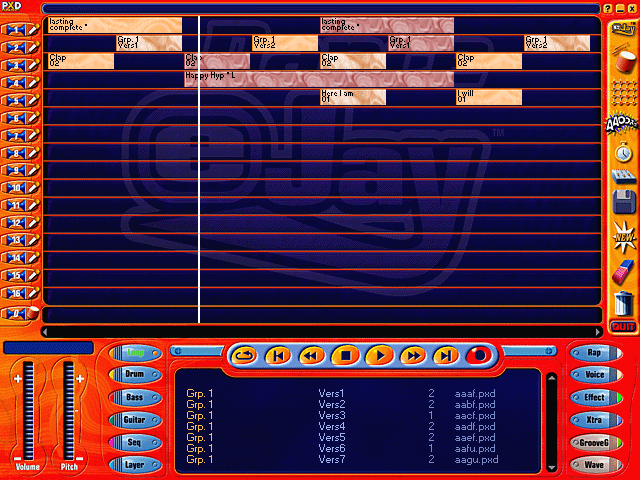
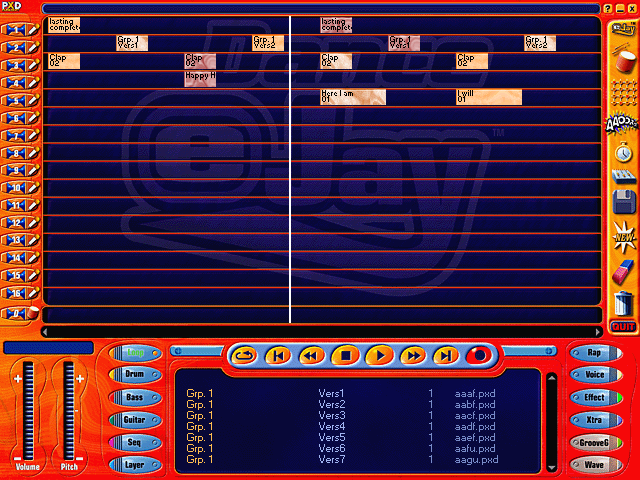
eJay 2: the whole arrangement plays through, and a fresh screenshot
Two corrections to the instrument, then the result.

The envelope report was timing itself by counting ticks at 16ms. A tick actually
takes about 31ms, so its time axis was out by a factor of two and a block placed
at bar 12 appeared to sound at bar 6 - a bug that existed only in the report. It
now records AGetTime beside each level and plots against the engine's own
playback clock. On that axis a single block at bar 12 sounds at bar 12.0, and a
fourteen-bar arrangement plays from bar 0 through bar 14 and stops where it ends.

The arrangement column beside it now uses each sample's own length rather than
the bars its block occupies: a one-beat hit fills a bar of grid and sounds for a
beat, and counting it as a bar reported silence as a fault.

The workspace screenshot is retaken from a run with the arrangement playing. The
paint check reports nothing outside the panels, which is the browser-row overlap
that kept coming back, gone in the picture as well as in the check.

Claude-Session: https://claude.ai/code/session_01KXFeSjiR8AQuaVsADvqfMd

diff --git a/host32/ejay2.c b/host32/ejay2.c
@@ -1951,6 +1951,9 @@ int main(int argc, char **argv)
     }
     float peak = 0.0f;
     static float env[2400];
+    static int   envt[2400];   /* AGetTime beside each level, so the time axis
+                                 is the engine's playback clock and not an
+                                 assumption about how long a tick took */
     int env_n = 0;
     double played = 0.0;   /* engine bytes from samples that already finished */
     DWORD t0 = GetTickCount();
@@ -2087,7 +2090,10 @@ int main(int argc, char **argv)
         pump_messages();
         float p = meter_peak();
         if (p > peak) peak = p;
-        if (env_n < (int)(sizeof(env) / sizeof(env[0]))) env[env_n++] = p;
+        if (env_n < (int)(sizeof(env) / sizeof(env[0]))) {
+            envt[env_n] = AGetTime ? AGetTime(0) : 0;
+            env[env_n++] = p;
+        }
         if (seq && i % 50 == 0)
             printf("    t=%5lums  AGetTime %8d  transport %9d  cur %d/%d  peak %.3f\n",
                    (unsigned long)(GetTickCount() - t0),
@@ -2143,13 +2149,17 @@ int main(int argc, char **argv)
         for (int k = 0; k + 8 <= env_n; k += 8) {
             float m = 0;
             for (int j = 0; j < 8; j++) if (env[k + j] > m) m = env[k + j];
-            double at = k * 16 * 176.4;            /* ticks -> output bytes */
+            double at = envt[k] * 176.4;           /* playback ms -> output bytes */
             int want = 0;
             for (int i = 0; i < g_song_n; i++) {
                 const SLOT *sl = &g_song[i];
                 if (sl->lib < 0 || sl->lib >= g_lib_n) continue;
                 double b0 = (double)sl->bar * BAR_UNITS;
-                double b1 = b0 + sl->bars * (double)BAR_UNITS;
+                /* The sample's own length, not the bars its block occupies: a
+                 * one-beat hit fills a bar of grid but only sounds for a beat,
+                 * and counting it as a bar would report silence as a fault. */
+                double b1 = b0 + (g_lib[sl->lib].len ? g_lib[sl->lib].len * 2.0
+                                                     : sl->bars * (double)BAR_UNITS);
                 if (at >= b0 && at < b1) want++;
             }
             printf("    %4.1f  %5.3f  %-4d |", at / BAR_UNITS, m, want);

diff --git a/README.md b/README.md
@@ -48,7 +48,8 @@ of ours.
 
 *Dance eJay 2's arrangement page, playing. Thirteen samples are placed across
 the tracks with `APlay` and drawn into the same lanes by `PXD32CL1.DLL` from the
-same list, so what is on the screen is what is coming out of the speakers. The
+same list, so what is on the screen is what is coming out of the speakers - the
+playhead is where the engine says it is, a bar every 1.714 seconds. The
 block labels and the browser rows are the samples' own two-line names, read out
 of their file headers - "Snare Beat / Risk", "Perc.L / Vers10", "Warm** /
 Line 1".*
@@ -115,6 +116,24 @@ ASetPfad(dir) → AStop → AMitte(0,0) → RWaveParam(60, 0x6666) → ASetFader
   sample, move a sample to one of the tracks"*. A block already in the grid
   drags along its lane, snapped to the bar; dropping it rebuilds the arrangement
   in the engine, because `APlay` appends and there is no move.
+
+- **The arrangement plays, in time.** Placing thirteen samples and getting a
+  song out of them turned on one number, and it was wrong from the first
+  `APlay`: 88,200 per bar, which is 120 BPM counted in samples. The engine
+  counts **output bytes** - its transport dword advances 176,400 for every
+  second of playback, 44,100 frames of 16-bit stereo - and Dance eJay's tempo is
+  a fixed **140 BPM**, so a bar is 1.714 seconds and **302,400** of them. At
+  88,200 a bar was half a second: sixteen bars of grid became eight, every
+  block's end landed inside its own audio, and the whole arrangement fired and
+  died in the first few seconds.
+
+  The sample files say the same number themselves. A `tPxD` header carries the
+  decoded length after the name and a `0x54` byte, as a byte count of 16-bit
+  mono - 151,200, exactly one bar at 140 BPM, and 37,800, exactly one beat - so
+  the host reads it out of the file and rounds it up to whole bars instead of
+  trusting `PXD.TXT`'s bar-count field. A block placed at bar 12 now sounds at
+  bar 12.0 on the engine's own clock, and a fourteen-bar arrangement plays
+  through and stops where it ends.
 
 - **The chrome responds.** `K_640` is eJay's control table - a name and ten
   numbers per control: where it sits, how big it is, and three source rectangles
